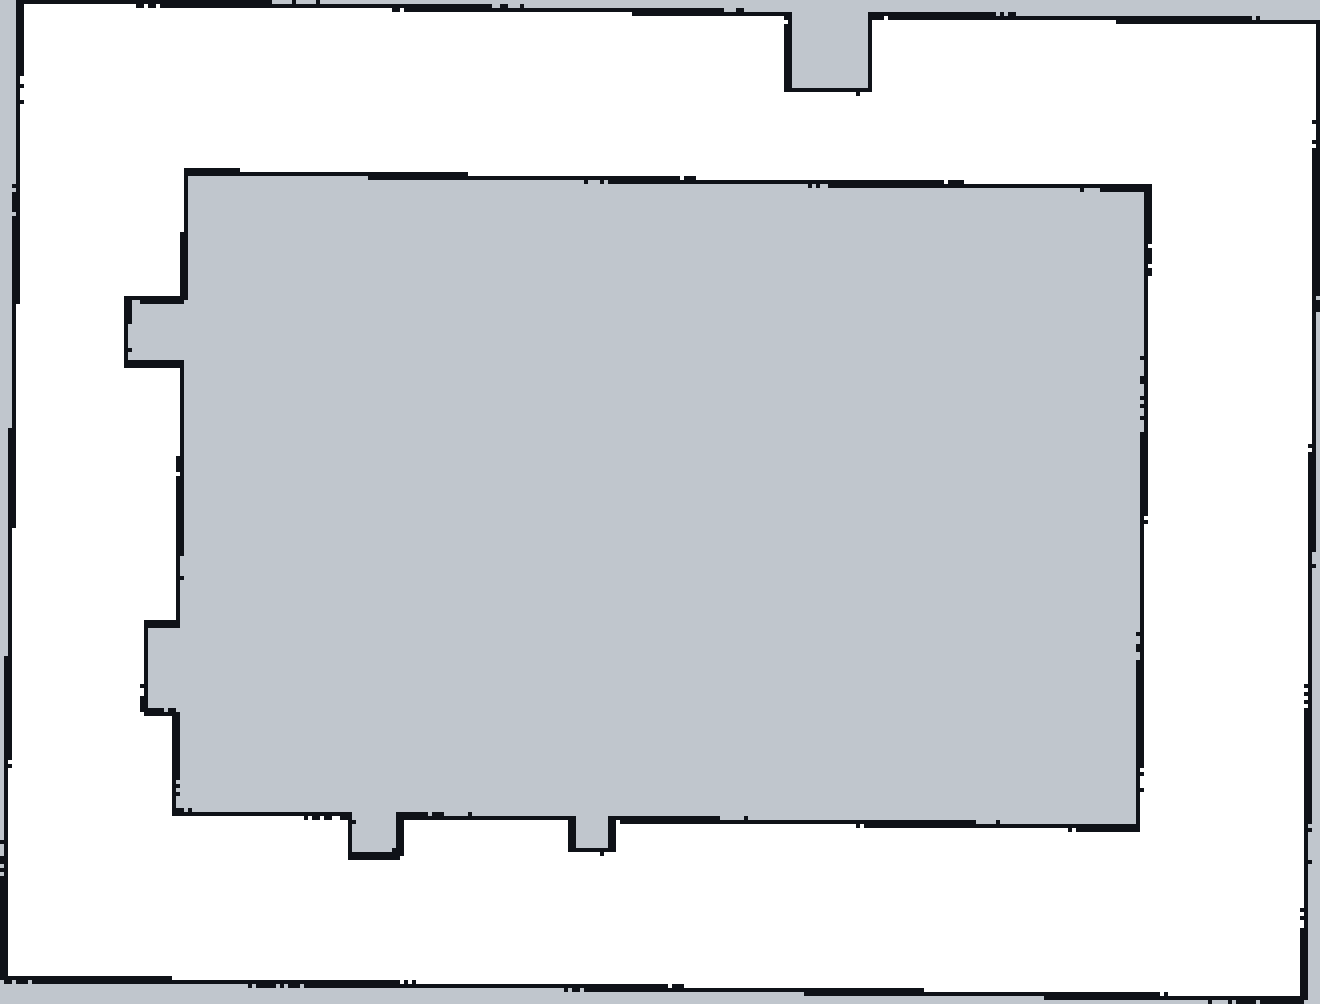
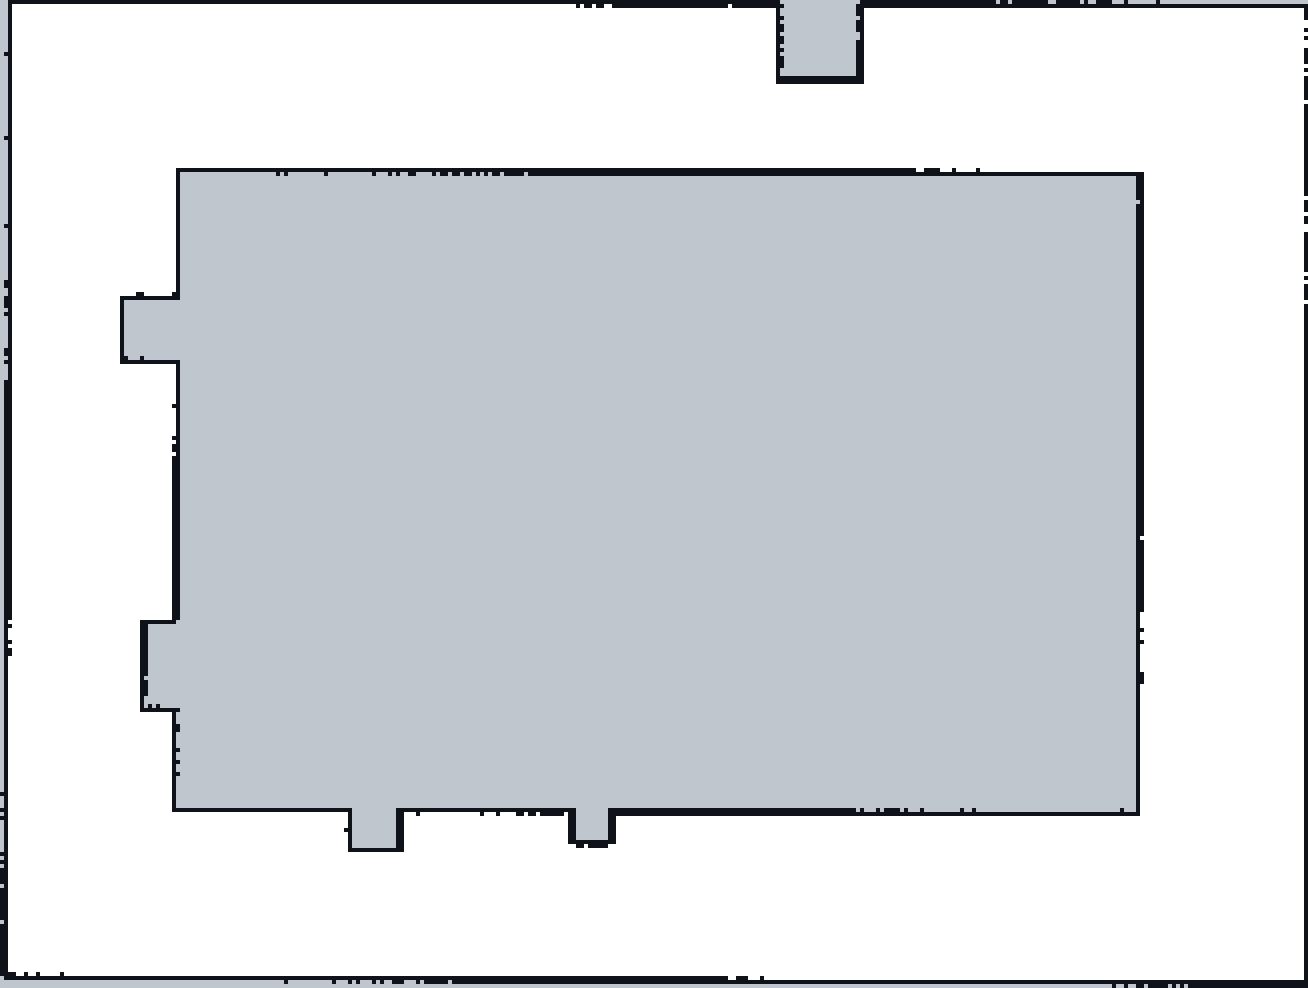
fix(m3-2): preserve original map and separate comparison results

diff --git a/M3/M3-2/results/quality_report.md b/M3/M3-2/results/quality_report.md
@@ -4,13 +4,13 @@
 
 自建 `worlds/scene.world`：东侧走廊长 8 m、净宽 2.1 m，中央障碍四周构成回环；北侧设置净宽 1.15 m 的局部窄通道。
 
-难点用于检验遮挡、低速转向时的扫描匹配与栅格化后通行宽度。预期可能出现墙面增厚、错位或通道收窄。实测窄通道连续自由宽度为 1.10 m，保持连通，未出现堵塞；比设计宽度少 0.05 m，相当于一个栅格，不能直接归因于 SLAM 漂移。
+难点用于检验遮挡、低速转向时的扫描匹配与栅格化后通行宽度。预期可能出现墙面增厚、错位或通道收窄。原正式地图测得窄通道连续自由宽度为 1.05 m，保持连通，未出现堵塞；比设计宽度少 0.10 m，不能仅凭该差值归因于 SLAM 漂移。
 
 ## 2. 数据与配置
 
 原始数据：`bags/m3_2_full_run_20261010_044458/`，时长 430.33 s，含 4280 帧 `/scan`、21401 帧 `/odom` 及 `/tf`、`/tf_static`、`/clock`。巡场直行 0.16 m/s，转弯及窄通道 0.08 m/s。
 
-本次在同一 rosbag 上分别开启、关闭回环重建地图。两组均采用 `sync_slam_toolbox_node`、2 倍速回放；移除旧 `/map`、`/cmd_vel` 和 21517 个旧 `map→odom` 变换，保留录制的 `/clock`。建图输入不含 Gazebo 真值。
+补充实验在同一 rosbag 上分别开启、关闭回环重建地图，分别保存为 `maps/map_with_loop_on.pgm` 和 `maps/map_with_loop_off.pgm`；正式 `map.pgm/map.yaml` 沿用原图。两组均采用 `sync_slam_toolbox_node`、2 倍速回放；移除旧 `/map`、`/cmd_vel` 和 21517 个旧 `map→odom` 变换，保留录制的 `/clock`。建图输入不含 Gazebo 真值。
 
 | 参数 | 设置与依据 |
 |---|---|
@@ -19,35 +19,37 @@
 | `minimum_time_interval` | 0.1 s，匹配实测约 10 Hz 的扫描频率 |
 | `minimum_travel_distance` / `minimum_travel_heading` | 0.10 m / 0.10 rad，减少高度重复的后端节点 |
 | `loop_search_maximum_distance` | 3.0 m，在返回起点区域时搜索历史扫描 |
-| `do_loop_closing` | 正式地图 `true`，对照组 `false`；其余运行参数一致 |
+| `do_loop_closing` | 补充实验开启组 `true`、关闭组 `false`；其余运行参数一致 |
 | 地图加载阈值 | `free_thresh=0.25`、`occupied_thresh=0.65`，与 SLAM 内部占据阈值分开设置 |
 
 雷达为 `lidar_link`、360 束近全周扫描，测距噪声标准差 0.01 m。直行每帧位移约 0.016 m，转弯约 0.008 m，均小于 0.05 m 栅格；后端仍会按移动门槛筛选扫描。
 
 ## 3. 正式地图
 
-`maps/map.pgm`、`maps/map.yaml` 使用本次回环开启结果，与 `maps/map_with_loop_on.pgm` 相同；旧地图保留在 `maps/archive/`。
+`maps/map.pgm`、`maps/map.yaml` 沿用原正式地图；本节及第 4、6 节评价原图，第 5 节单独评价补充对比实验。
 
-- 尺寸：330 × 251 像素，覆盖 16.50 × 12.55 m。
-- 自由 / 占据 / 未知栅格：38348 / 3099 / 41383。
-- 两组 PGM/YAML 均通过真实 Nav2 `map_server` 的 `LoadMap` 服务加载，返回码 0。
+- 尺寸：327 × 247 像素，覆盖 16.35 × 12.35 m。
+- 自由 / 占据 / 未知栅格：38358 / 2864 / 39547。
+- 原图已通过 Nav2 `map_server` 加载验证；两组实验地图的 `LoadMap` 返回码均为 0。
 
 ![正式地图](map_overview.png)
 
 ## 4. 墙体直线度
 
-在中央北、南长墙各采样 99 列、长度 4.90 m，提取墙线中点并拟合直线，计算点到直线的垂直距离。
+在中央北、南长墙各采样 98 列、长度 4.85 m，提取墙线中点并拟合直线，计算点到直线的垂直距离。
 
 | 墙段 | 平均绝对偏差 | 最大绝对偏差 |
 |---|---:|---:|
-| 中央北墙 | 0.0064 m | 0.0151 m |
-| 中央南墙 | 0.0062 m | 0.0167 m |
+| 中央北墙 | 0.0064 m | 0.0161 m |
+| 中央南墙 | 0.0061 m | 0.0200 m |
 
 两段 ROI 的分离墙带筛查均为 0 列（检测条件为墙带边缘相隔至少 3 像素）。偏差相对于地图拟合线，不代表真实定位精度。
 
 ![墙体采样与拟合线](wall_straightness.png)
 
-## 5. 回环一致性与单参数对照
+## 5. 补充实验：回环一致性与单参数对照
+
+本节比较 `map_with_loop_on.pgm` 与 `map_with_loop_off.pgm`，两张均为本次录包回放结果；以下回环约束和墙面间距仅对应实验地图。
 
 两组后端均保留 246 个节点，节点扫描时间戳逐项一致。开启回环时有 246 条边，包含起点 0 与近终点 243 的跨圈约束；关闭时为 245 条边，无该约束。
 
@@ -76,21 +78,22 @@
 
 | 检查项 | 正式地图结果 |
 |---|---|
-| 窄通道 | 9 个截面均为 22 格，即 1.10 m，大于题目要求的 3 格 |
+| 窄通道 | 9 个截面均为 21 格，即 1.05 m，大于题目要求的 3 格 |
 | 连通性 | 自由空间四连通块 1 个，最大连通块占 100% |
-| 伪障碍筛查 | 占据四连通块 2 个，对应外围墙体和中央障碍；未检出独立内场黑点，未排除贴墙毛刺 |
-| 边界封闭 | 将未知区也视为可穿过，从自由区向外搜索，可到达地图边缘的栅格为 0 |
-| M3-3 车体余量 | footprint 为 0.50 × 0.30 m，直行名义横向余量每侧约 0.40 m |
+| 伪障碍筛查 | 占据四连通块 13 个，其中 11 个小分量均位于东侧最外列；未检出独立内场黑点，未排除贴墙毛刺 |
+| 边界封闭 | 东侧有 15 个自由边缘栅格与主自由区连通，边界存在缺口 |
+| M3-3 车体余量 | footprint 为 0.50 × 0.30 m，直行名义横向余量每侧约 0.375 m |
 
 ![窄通道截面](narrow_passage.png)
 
-正式地图满足本次栅格质量与几何通行检查。M3-3 的 `inflation_radius=0.65 m` 包含分级代价，最终转弯和导航可行性仍需在实际代价地图中验证。
+原图窄通道保持连通，但东侧边界封闭性仍有缺口。M3-3 的 `inflation_radius=0.65 m` 包含分级代价，最终转弯和导航可行性仍需在实际代价地图中验证。
 
 ## 7. 复算与证据文件
 
 ```bash
 cd ~/22SmartCar/M3/M3-2
 source /opt/ros/humble/setup.bash
+/usr/bin/python3 scripts/eval_map.py --out-dir /tmp/m3_2_original_check
 /usr/bin/python3 -s scripts/analyze_loop.py
 ```
 

diff --git a/M3/M3-2/README.md b/M3/M3-2/README.md
@@ -13,14 +13,15 @@ ROS 2 Humble + Gazebo Classic + `slam_toolbox`。自建场景包含 8 m 长、2.
 | `worlds/scene.world` | 自建世界 |
 | `config/slam_params.yaml` | 开启回环的 SLAM 配置 |
 | `config/slam_params_loop_off.yaml` | 关闭回环的对照配置 |
-| `maps/map.pgm`、`maps/map.yaml` | 正式地图，回环开启 |
+| `maps/map.pgm`、`maps/map.yaml` | 原正式地图，保持原图 |
+| `maps/map_with_loop_on.pgm`、同名 YAML | 补充实验：回环开启 |
 | `maps/map_with_loop_off.pgm`、同名 YAML | 回环关闭地图 |
 | `bags/m3_2_full_run_20261010_044458/` | 原始 rosbag，430.33 s；交付时包含 `.db3` 和 `metadata.yaml` |
 | `results/quality_report.md` | 质量报告、图及数据对比 |
 | `results/loop_comparison/` | 参数快照、位姿图、CSV、对照图及量化结果 |
-| `maps/archive/` | 更换前的地图备份 |
+| `maps/archive/` | 原图备份 |
 
-正式地图为已有 rosbag 的重建结果，分辨率 0.05 m，尺寸 330 × 251。两组地图均通过 `map_server` 加载验证。
+正式地图沿用原图，分辨率 0.05 m，尺寸 327 × 247。以下为补充回环开关实验的结果，两组实验地图均通过 `map_server` 加载验证。
 
 | 指标 | 开启回环 | 关闭回环 |
 |---|---:|---:|
